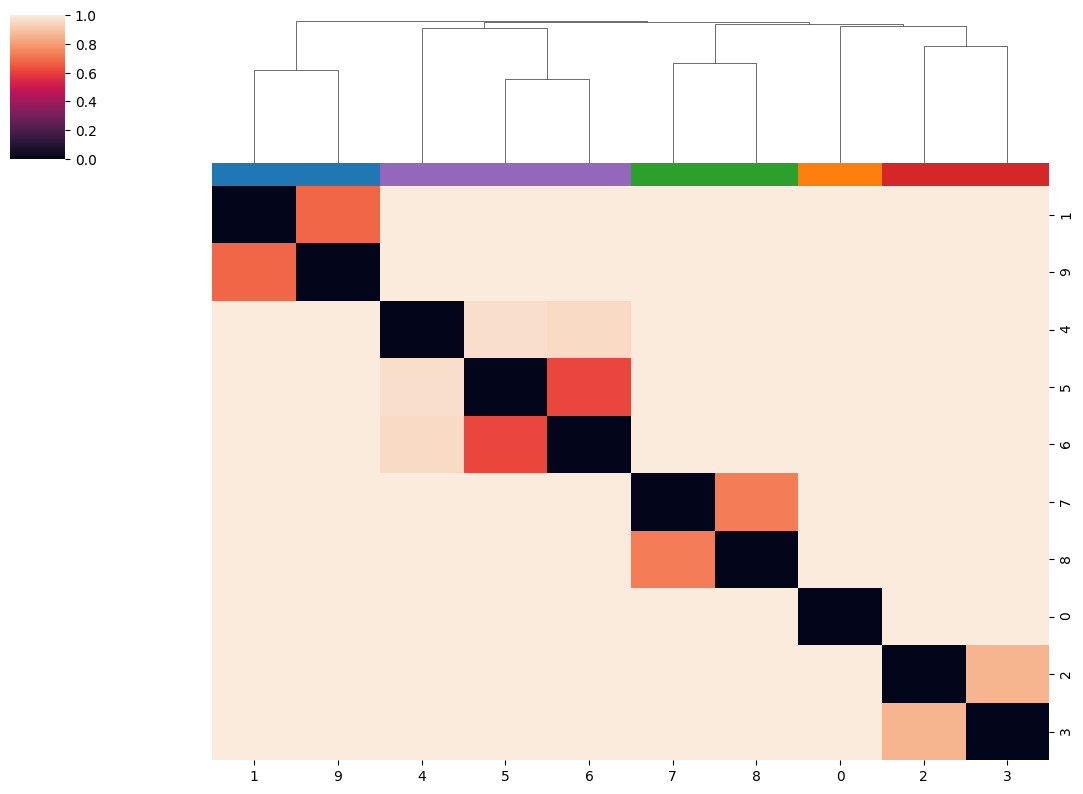
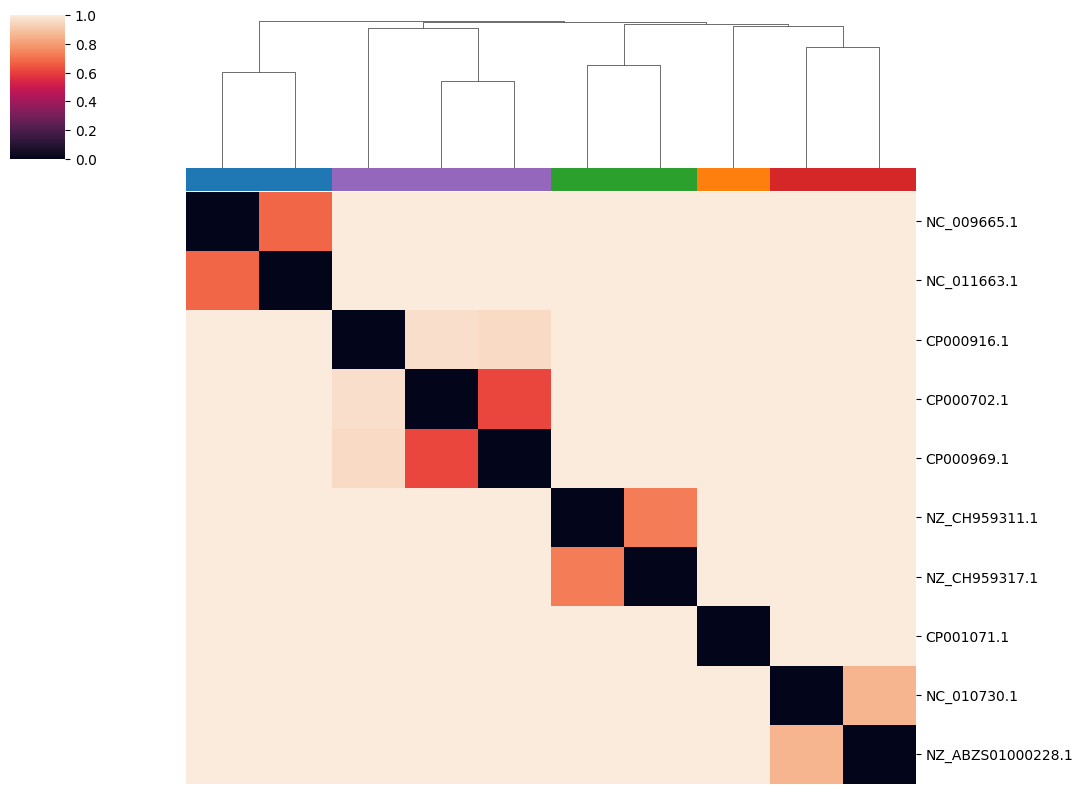
add ident labels

Changed region(s): [[0.1524, 0.1814, 1.0, 0.9975], [0.7313, 0.0302, 0.8227, 0.0605]]

diff --git a/src/sourmash_plugin_betterplot.py b/src/sourmash_plugin_betterplot.py
@@ -661,6 +661,8 @@ class Command_Plot3(CommandLinePlugin):
             vmin=args.vmin,
             vmax=args.vmax,
             col_colors=colors,
+            yticklabels=[ x["label"].split(' ')[0] for x in labelinfo ],
+            xticklabels=[],
         )
         # turn off column dendrogram
         fig.ax_row_dendrogram.set_visible(False)
